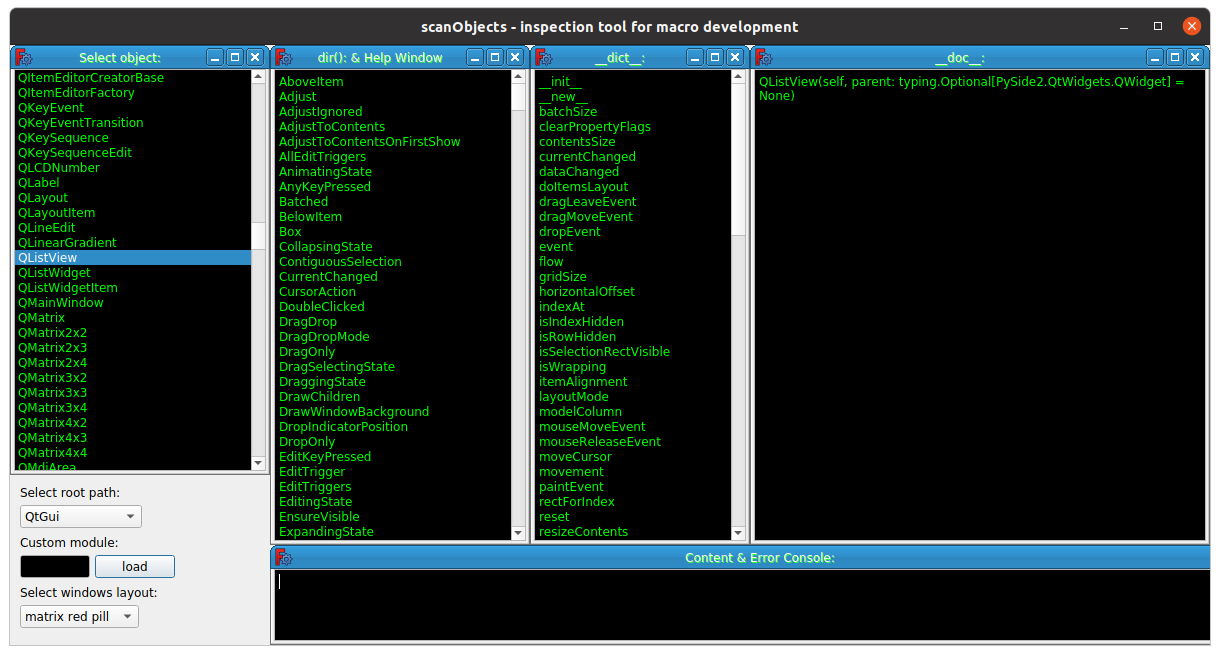
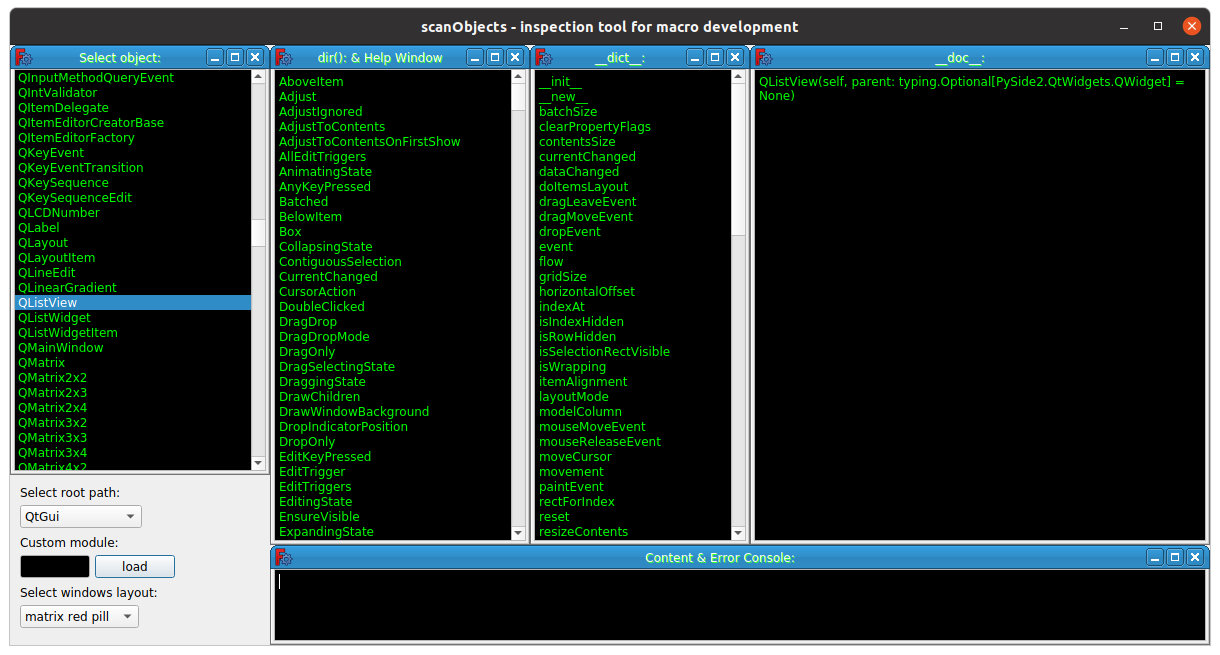
fix console width

diff --git a/scanObjects.py b/scanObjects.py
@@ -2,7 +2,7 @@
 
 # Inspection tool for FreeCAD macro development.
 # Author: Darek L (aka dprojects)
-# Version: 2.4
+# Version: 2.5
 # Latest version: https://github.com/dprojects/scanObjects
 
 import FreeCAD
@@ -295,7 +295,7 @@ def showQtGUI():
 				self.o4sw.hide()
 				self.o4.hide()
 
-				self.o5sw.setGeometry(260, 500, 1020, 100)
+				self.o5sw.setGeometry(260, 500, 940, 100)
 				self.o5sw.show()
 				self.o5.show()
 
